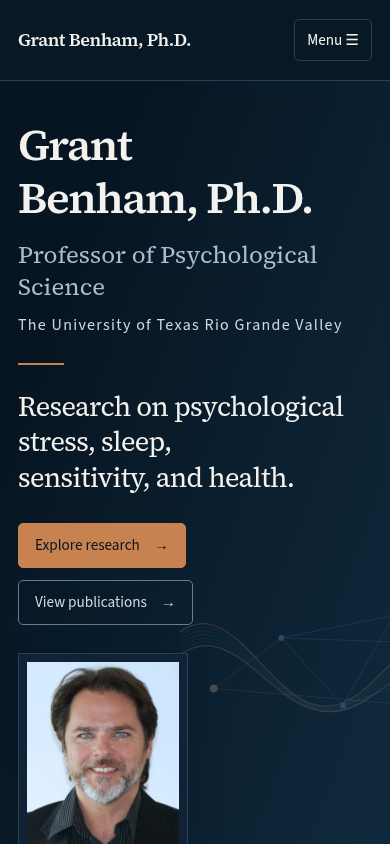
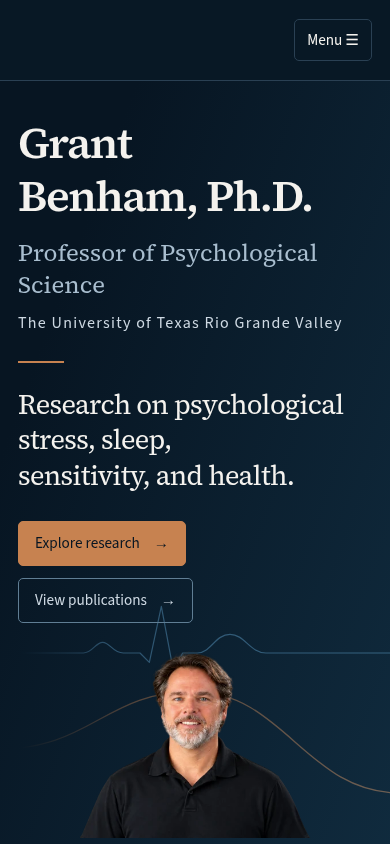
Refine hero with transparent portrait and ECG circadian motifs

diff --git a/src/styles/global.css b/src/styles/global.css
@@ -821,7 +821,8 @@ a{
 
 
 /* Decorative illustrations never sit behind body copy. */
-.hero-art { position:absolute; width:720px; height:350px; right:-130px; bottom:-40px; z-index:-1; opacity:.5; pointer-events:none; }
+.hero-art { position:absolute; width:820px; height:456px; right:-40px; bottom:0; z-index:-1; pointer-events:none; }
+.hero-rhythms { display:block; width:100%; height:auto; }
 .research-title { display:flex; align-items:center; justify-content:space-between; gap:24px; margin-bottom:20px; }
 .research-title h2 { margin-bottom:0; }
 .research-art { width:150px; flex:0 0 150px; opacity:.75; }
@@ -835,7 +836,7 @@ a{
 .site-header .wordmark:hover { color:var(--link); }
 @media(max-width:1100px) { #main-navigation { width:100%; justify-content:flex-end; } }
 @media(max-width:700px) {
-  .hero-art { width:450px; right:-240px; bottom:0; opacity:.3; }
+  .hero-art { width:600px; height:auto; right:-230px; bottom:20px; opacity:.65; }
   .hero-grid { gap:28px; }
   .research-section { padding:var(--space-3); }
   .research-art { width:75px; flex-basis:75px; }
@@ -848,4 +849,20 @@ a{
   .hero { background:#fff; }
   .hero-art,.research-art { display:none; }
   .citation { background:#fff; }
+}
+
+/* Frame-free portrait composition, with restrained rhythms behind the subject. */
+.header-inner { justify-content:flex-end; min-height:80px; }
+.hero-grid { grid-template-columns:minmax(0,1fr) 420px; gap:40px; align-items:center; padding-block:48px 0; }
+.hero-copy { padding-bottom:48px; }
+.portrait { max-width:420px; align-self:end; }
+.portrait-frame { padding:0; background:transparent; border:0; box-shadow:none; }
+.portrait img { aspect-ratio:840/684; object-fit:contain; }
+.portrait figcaption { text-align:center; margin-top:8px; padding-bottom:12px; }
+@media(min-width:1500px) { .hero-grid { grid-template-columns:1fr 420px; } .portrait { max-width:420px; } }
+@media(max-width:1100px) { .hero-grid { grid-template-columns:minmax(0,1fr) 330px; gap:24px; } .portrait { max-width:330px; } }
+@media(max-width:700px) {
+  .hero-grid { grid-template-columns:1fr; gap:20px; padding-top:36px; }
+  .hero-copy { padding-bottom:0; }
+  .portrait { max-width:240px; justify-self:center; }
 }

diff --git a/src/config.ts b/src/config.ts
@@ -11,10 +11,10 @@ export const site = {
   // GitHub user-site repository; an empty base serves pages at the domain root.
   base: '',
   repository: 'GrantBenham/GrantBenham.github.io',
-  portrait: '/images/grant-benham.webp',
-  portraitSmall: '/images/grant-benham-320.webp',
-  portraitWidth: 600,
-  portraitHeight: 737,
+  portrait: '/images/grant-benham-cutout.webp',
+  portraitSmall: '/images/grant-benham-cutout-420.webp',
+  portraitWidth: 840,
+  portraitHeight: 684,
   cv: '/documents/Grant-Benham-CV-2026-10.docx',
   cvLabel: 'Download CV (DOCX, October 2026)',
   scholar: 'https://scholar.google.com/citations?user=OT4muuUAAAAJ',

diff --git a/tests/site.spec.ts b/tests/site.spec.ts
@@ -122,7 +122,7 @@ test('merged home, stable About link, and compact linked alumni', async ({page})
   await page.goto('');
   await expect(page.getByRole('heading', {name:'Academic biography'})).toBeVisible();
   await expect(page.locator('.home-research, .lab-band')).toHaveCount(0);
-  await expect(page.locator('header .wordmark')).toHaveText(site.name);
+  await expect(page.locator('header .wordmark')).toHaveCount(0);
   await expect(page.locator('footer')).toContainText(site.institution);
   await expect(page.getByRole('link', {name:'Home', exact:true})).toHaveAttribute('aria-current','page');
   await page.goto('about/');

diff --git a/docs/DARK-DESIGN-REVIEW.md b/docs/DARK-DESIGN-REVIEW.md
@@ -54,9 +54,9 @@ The existing biography, education, appointments, awards, and contact information
 
 ## What changed
 
-Navy backgrounds, off-white serif headings, pale blue-gray body text, copper links and buttons, thin borders, and consistent dark cards and search controls. Lightweight, decorative SVG waves and connections appear beside the portrait and research headings. There are no campus photographs, institutional logos, new marketing statements, animations, or image color filters.
+Navy backgrounds, off-white serif headings, pale blue-gray body text, copper links and buttons, thin borders, and consistent dark cards and search controls. Behind the portrait, a single schematic P–QRS–T trace in blue is paired with a broad copper circadian wave. The research headings retain their small decorative wave illustrations. There are no campus photographs, institutional logos, new marketing statements, animations, or image color filters.
 
-The new brief explicitly requests your name in the header and a footer with plain-text affiliation and professional links; those are restored. The seven menu destinations, Teaching-before-Software order, combined Home/About content, alumni order and 120-pixel photos, software selection, and archive functionality are preserved.
+Following your latest revision, the name/link at the upper left is removed. The plain-text footer requested in the redesign brief remains. The seven menu destinations, Teaching-before-Software order, combined Home/About content, alumni order and 120-pixel photos, software selection, and archive functionality are preserved.
 
 Central colors, surfaces, typography, spacing, radius, gradient, and shadow settings live in `src/styles/theme.css`. Layout rules remain in `src/styles/global.css`. There is no theme toggle or new framework.
 
@@ -65,9 +65,9 @@ Central colors, surfaces, typography, spacing, radius, gradient, and shadow sett
 - Astro validation: no errors or warnings. Static build and internal link/asset/anchor checks passed for all nine generated HTML routes, including the legacy About redirect and 404 page.
 - All 17 browser tests passed. These exercise navigation, publication and presentation search/filter/reset, PDF download and lazy viewer, CV and portrait, alumni profiles, and operation without JavaScript.
 - Automated WCAG A/AA checks passed on all seven main pages and the open mobile menu. Layouts checked at 1440, 768, 390, and 320 pixels wide with no horizontal overflow.
-- Main text, link destinations, and image paths compared against the live website: identical on all seven pages. Data files, original media, dependency files, and deployment workflows are unchanged.
+- Main text and link destinations are preserved on all seven pages. Image paths are unchanged except for the intentionally revised homepage portrait. Structured content data, original media, dependency files, and deployment workflows remain unchanged.
 - The six linked software repositories were reachable through GitHub. The unchanged gbEFA application URL accepted a GET request (HTTP 202); the external application itself was not functionally tested. External Google Scholar and a sampled DOI destination reject automated requests in this environment; their unchanged destinations were preserved. Automated accessibility checks do not replace a full human accessibility audit.
-- Screenshots were generated from the built website and visually inspected. The current portrait is retained; it is the same photograph used on the white live website.
+- Screenshots were generated from the built website and visually inspected. The new portrait is an AI-generated transparent cutout derived from your supplied dark mockup, saved as responsive WebP assets. Its likeness is part of this design review. The original white-site portrait is retained in the repository for recovery.
 - The public homepage was compared byte for byte before and after the work and remains unchanged.
 
 ## Interactive preview — optional, for someone running the site locally
